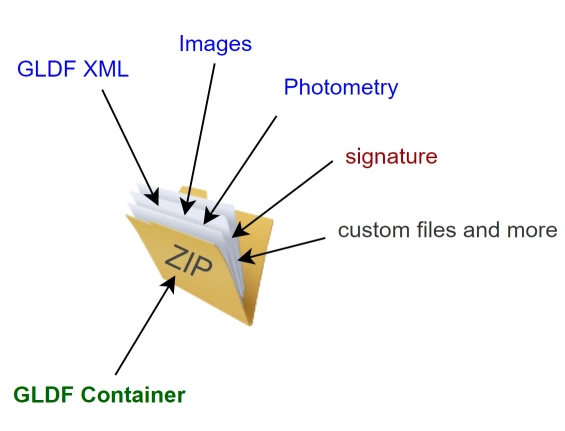
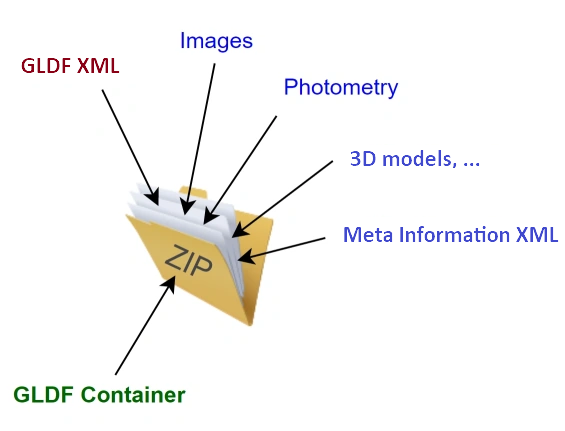
Add meta-information topic to docs

diff --git a/sidebars.js b/sidebars.js
@@ -36,6 +36,7 @@ module.exports = {
     ],
     "GLDF Container": [
       "container/about-container",
+      "container/meta-information",
       "container/container-specification",
     ],
     Conventions: [
@@ -50,7 +51,7 @@ module.exports = {
         "Parametric Geometry": [
           "geometry/parametric-introduction",
           {
-            "Types":[
+            Types: [
               "geometry/types/parametric-round-recessed",
               "geometry/types/parametric-cuboid-recessed",
               "geometry/types/parametric-open-luminaire",

diff --git a/docs/container/meta-information.md b/docs/container/meta-information.md
@@ -1,0 +1,40 @@
+---
+title: Meta-Information
+sidebar_label: Meta-Information
+---
+
+## Introduction
+
+A GLDF file can require information, that does **not refer to the specific** product it provides. This information are more of a **technical nature**. For this data, a separate file is intended in the GLDF: the **`meta-information.xml`**. Its content is specified like the `product.xml` through a [XSD Schema](/download) and will be described in this chapter.
+
+:::caution important
+The `meta-information.xml` is not intended to store manufacturers luminaire data.  
+These have to be written into the `product.xml`!
+:::
+
+## XSD
+
+<!-- markdownlint-disable-next-line -->
+<img src="/img/docs/container/meta-info-xsd.webp" alt="Meta Information XSD" width="450" />
+
+## `name` attribute convention
+
+:::info property naming
+The convention for the `name` attribute is the following:
+
+`Issuer`-`PropertyName`
+:::
+
+## XML example
+
+Let's imagine we have two companies: **Acme** and **ExampleLLC**. And both would like to store its own **signature**.  
+An exemplary **`meta-information.xml`** could therefore look as follows
+
+```xml
+<MetaInformation>
+  <Property name="Acme-Signature">41dad678-14fe-4ea9-a7fe-2a5a22e79aae</Property>
+  <Property name="ExampleLLC-Signature">5437af9d-18c4-485e-b396-1d3d6531fb29</Property>
+</MetaInformation>
+```
+
+This example also illustrates how important it is to **follow the convention** for the `name` attribute to **avoid naming conflicts**.

diff --git a/docs/container/container-specification.md b/docs/container/container-specification.md
@@ -20,9 +20,9 @@ Optional
 
 - **GLDF-XSD** Schema file, with the filename `gldf.xsd`
 - Multiple **directories** for assets like photometries, images, geometry files and other
-- `signature` file, without extension. Intended for a **[digital signature](https://en.wikipedia.org/wiki/Digital_signature)** of the content above
+- A `meta-information.xml` file. Intended for **additional information** like **[digital signatures](https://en.wikipedia.org/wiki/Digital_signature)**
 
-## GLDF-XML file
+## GLDF-XML file (`product.xml`)
 
 - Filename
   - The **filename** of the GLDF XML inside the root directory **must** be `product.xml`
@@ -37,6 +37,10 @@ Optional
 - The GLDF-XSD has to be **referenced** by the GLDF-XML file
 - The GLDF-XSD Schema can be referenced either **online** or **locally** inside the container
 - Referenced XSDs which **differ** from the officially published XSDs may lead to **errors**. Please use only the published XSDs for validation and development
+
+## Meta-Information File (`meta-information.xml`)
+
+See [Meta-Information](/docs/container/meta-information)
 
 ## Directories
 

diff --git a/src/pages/download.md b/src/pages/download.md
@@ -24,9 +24,11 @@ The current XML Schema files can also be referenced directly from gldf.io:
 - **Including** version 🠖 **content won't change** on new release
   - GLDF: <a href="/xsd/gldf/1.0.0-rc.1/gldf.xsd" target="_blank">gldf.io/xsd/gldf/1.0.0-rc.1/gldf.xsd</a>
   - L3D: <a href="/xsd/l3d/0.10.0/l3d.xsd" target="_blank">gldf.io/xsd/l3d/0.10.0/l3d.xsd</a>
+  - Meta-Information: <a href="/xsd/meta/1.0.0/meta-information.xsd" target="_blank">gldf.io/xsd/meta/1.0.0/meta-information.xsd</a>
 - **Without** version 🠖 **content will change** on every new release
   - GLDF: <a href="/xsd/gldf/gldf.xsd" target="_blank">gldf.io/xsd/gldf/gldf.xsd</a>
   - L3D: <a href="/xsd/l3d/l3d.xsd" target="_blank">gldf.io/xsd/l3d/l3d.xsd</a>
+  - Meta-Information: <a href="/xsd/meta/meta-information.xsd" target="_blank">gldf.io/xsd/meta/meta-information.xsd</a>
 
 :::caution
 The XSD urls without version should only be referenced with caution, as the content can change anytime and may invalidate your GLDF XML unintentionally!
